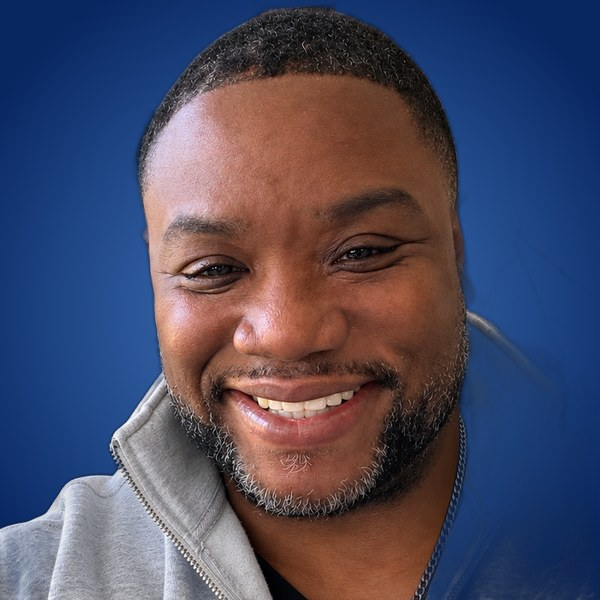
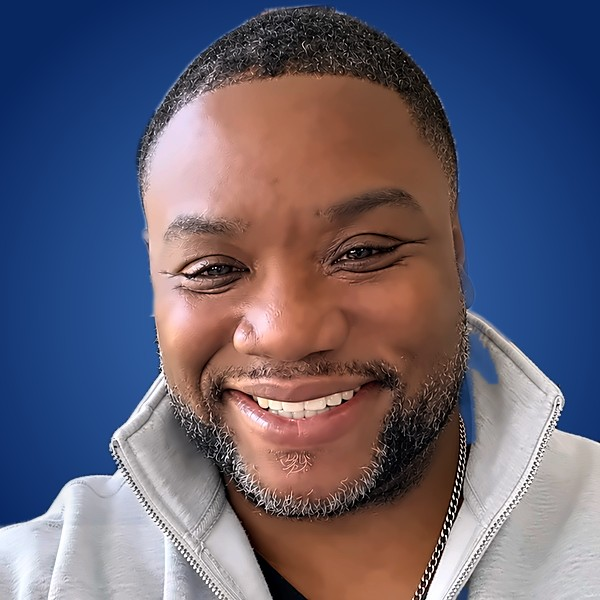
Leaders: clean up and brighten Dr. Bradley, Pastor Drew and Erica headshots
Claude-Session: https://claude.ai/code/session_011HbiFvwRzZYMuKSLe3bf9h

diff --git a/leadership.html b/leadership.html
@@ -1,1 +1,1 @@
-<!doctype html><html lang="en"><head><meta charset="utf-8"><meta name="viewport" content="width=device-width,initial-scale=1"><meta name="theme-color" content="#ed590b"><meta name="description" content="Meet Pastors Andrew (Drew) and Patrice Ambroise and the leadership team serving IGotoHim Church in Brockton, Massachusetts."><link rel="canonical" href="https://www.igotohim.com/leadership.html"><meta name="robots" content="index,follow"><link rel="icon" type="image/png" href="assets/img/favicon.png"><link rel="apple-touch-icon" href="assets/img/apple-touch-icon.png"><meta property="og:type" content="website"><meta property="og:site_name" content="IGotoHim Church"><meta property="og:title" content="Leaders | Pastors Andrew & Patrice Ambroise | IGotoHim Church"><meta property="og:description" content="Meet Pastors Andrew (Drew) and Patrice Ambroise and the leadership team serving IGotoHim Church in Brockton, Massachusetts."><meta property="og:url" content="https://www.igotohim.com/leadership.html"><meta property="og:image" content="https://www.igotohim.com/assets/img/og-image.jpg"><meta property="og:image:width" content="1200"><meta property="og:image:height" content="630"><meta property="og:image:alt" content="IGotoHim Church: A church for people like you"><meta property="og:locale" content="en_US"><meta name="twitter:card" content="summary_large_image"><meta name="twitter:title" content="Leaders | Pastors Andrew & Patrice Ambroise | IGotoHim Church"><meta name="twitter:description" content="Meet Pastors Andrew (Drew) and Patrice Ambroise and the leadership team serving IGotoHim Church in Brockton, Massachusetts."><meta name="twitter:image" content="https://www.igotohim.com/assets/img/og-image.jpg"><meta name="geo.region" content="US-MA"><meta name="geo.placename" content="Brockton"><title>Leaders | Pastors Andrew & Patrice Ambroise | IGotoHim Church</title><link rel="stylesheet" href="assets/style.css?v=20261117d"><script defer src="assets/config.js?v=20261117d"></script><script defer src="assets/app.js?v=20261117d"></script></head><body><div id="site-header"><div class="topbar">ALL ARE WELCOMED · <span>Sundays at 11 AM</span><span class="tb-loc"> · Brockton, Massachusetts</span></div><header class="nav"><div class="container nav-inner"><a class="brand" href="index.html"><img src="assets/logo.png" alt="IGotoHim — Disciple Maker" width="900" height="390"></a><button class="menu" aria-label="Toggle menu" aria-expanded="false">☰</button><nav class="navlinks" aria-label="Main"><a class="navitem" href="index.html">Home</a><div class="dropdown"><a class="navitem active" href="about.html" aria-haspopup="true">About <svg class="chev" viewBox="0 0 24 24" aria-hidden="true"><path d="m6 9 6 6 6-6"/></svg></a><div class="dropmenu"><a href="leadership.html">Leaders</a><a href="sermons.html">Sermons</a></div></div><a class="navitem" href="news.html">News</a><div class="dropdown"><a class="navitem" href="events.html" aria-haspopup="true">Events <svg class="chev" viewBox="0 0 24 24" aria-hidden="true"><path d="m6 9 6 6 6-6"/></svg></a><div class="dropmenu"><a href="events.html#sunday-service">Sunday Service</a><a href="events.html#bible-study">Bible Study</a></div></div><div class="dropdown"><a class="navitem" href="connect.html" aria-haspopup="true">Connect <svg class="chev" viewBox="0 0 24 24" aria-hidden="true"><path d="m6 9 6 6 6-6"/></svg></a><div class="dropmenu"><a href="connect.html#baptism">Baptism</a><a href="ministries.html">Ministries</a></div></div><a class="navitem" href="contact.html">Contact</a><a class="btn" href="https://app.easytithe.com/App/Form/7c1a2889-3194-436c-9861-6d94e68240a6" target="_blank" rel="noopener">Support →</a></nav></div></header></div><main><section class="page-hero"><div class="container"><div class="eyebrow">MEET OUR LEADERS</div><h1>Leadership with Heart</h1><p>Serving God, building disciples, and leading with compassion.</p></div></section><section class="section"><div class="container"><div class="split"><div><div class="eyebrow">SENIOR PASTORS</div><h2>Andrew (Drew) &amp; Patrice Ambroise</h2><p>Pastors Drew and Patrice lead IGotoHim with a shared passion for biblical teaching, prayer, discipleship, and community. Their desire is to make church accessible and welcoming to people from every walk of life.</p><a class="btn" href="contact.html">Connect with Our Church →</a></div><div class="pol-wrap tilt-l pw-pastor-photo pw-wide"><figure class="polaroid"><img loading="lazy" src="assets/img/leaders-event.jpg" alt="Pastor Andrew Ambroise speaking at a church gathering, with Pastor Patrice Ambroise and church leaders" class="pastor-photo wide"><figcaption>Sharing the Word</figcaption></figure></div></div></div></section><section class="section soft"><div class="container"><div class="eyebrow">SERVING TOGETHER</div><h2>Our Church Leadership</h2><div class="leaders"><div class="leader"><img class="leader-photo" src="assets/img/leader-drew.jpg?v=2" alt="Pastor Andrew (Drew) Ambroise, Senior Pastor" width="600" height="600" loading="lazy"><h3>Pastor Drew Ambroise</h3><p>Senior Pastor</p></div><div class="leader"><img class="leader-photo" src="assets/img/leader-patrice.jpg?v=2" alt="Pastor Patrice Ambroise, Senior Pastor" width="600" height="600" loading="lazy"><h3>Pastor Patrice Ambroise</h3><p>Senior Pastor</p></div><div class="leader"><img class="leader-photo" src="assets/img/leader-willie.jpg?v=2" alt="Dr. Willie Bradley, Executive Pastor / Treasurer" width="600" height="600" loading="lazy"><h3>Dr. Willie Bradley</h3><p>Executive Pastor / Treasurer</p></div><div class="leader"><img class="leader-photo" src="assets/img/leader-erica.jpg?v=2" alt="Erica Bradley, Secretary" width="600" height="600" loading="lazy"><h3>Erica Bradley</h3><p>Secretary</p></div><div class="leader"><img class="leader-photo" src="assets/img/leader-janelle.jpg?v=2" alt="Janelle Washington, Kids Ministry" width="600" height="600" loading="lazy"><h3>Janelle Washington</h3><p>Kids Ministry</p></div><div class="leader"><div class="leader-photo leader-initials" aria-hidden="true">TW</div><h3>Thadeuos Washington</h3><p>Video &amp; Social Media</p></div><div class="leader"><img class="leader-photo" src="assets/img/leader-jehna.jpg?v=2" alt="Jehna Ambroise, Recording and Social Media" width="600" height="600" loading="lazy"><h3>Jehna Ambroise</h3><p>Recording &amp; Social Media</p></div></div></div></section></main><div id="site-footer"><footer class="footer"><div class="container"><div class="footer-grid"><div><a class="brand" href="index.html"><img src="assets/logo-white.png" alt="IGotoHim — Disciple Maker" width="900" height="390"></a><p>A church for people like you.<br>All are welcomed. Faith. Family. Community.</p></div><div><h4>Explore</h4><div><a href="about.html">About Us</a></div><div><a href="leadership.html">Leaders</a></div><div><a href="news.html">News</a></div><div><a href="events.html">Events</a></div><div><a href="connect.html">Connect</a></div><div><a href="contact.html">Contact</a></div></div><div><h4>Join Us</h4><p>200 North Cary Street<br>Brockton, MA 02302<br>Sundays 11:00 AM<br>Wednesday Bible Study 7:30 PM</p><p><a href="tel:+17742408044">774-240-8044</a><br><a href="mailto:contactus@igotohim.com">contactus@igotohim.com</a></p></div></div><div class="footer-bottom">© <span id="year">2026</span> IGotoHim Church. All are welcomed.</div></div></footer></div></body></html>
+<!doctype html><html lang="en"><head><meta charset="utf-8"><meta name="viewport" content="width=device-width,initial-scale=1"><meta name="theme-color" content="#ed590b"><meta name="description" content="Meet Pastors Andrew (Drew) and Patrice Ambroise and the leadership team serving IGotoHim Church in Brockton, Massachusetts."><link rel="canonical" href="https://www.igotohim.com/leadership.html"><meta name="robots" content="index,follow"><link rel="icon" type="image/png" href="assets/img/favicon.png"><link rel="apple-touch-icon" href="assets/img/apple-touch-icon.png"><meta property="og:type" content="website"><meta property="og:site_name" content="IGotoHim Church"><meta property="og:title" content="Leaders | Pastors Andrew & Patrice Ambroise | IGotoHim Church"><meta property="og:description" content="Meet Pastors Andrew (Drew) and Patrice Ambroise and the leadership team serving IGotoHim Church in Brockton, Massachusetts."><meta property="og:url" content="https://www.igotohim.com/leadership.html"><meta property="og:image" content="https://www.igotohim.com/assets/img/og-image.jpg"><meta property="og:image:width" content="1200"><meta property="og:image:height" content="630"><meta property="og:image:alt" content="IGotoHim Church: A church for people like you"><meta property="og:locale" content="en_US"><meta name="twitter:card" content="summary_large_image"><meta name="twitter:title" content="Leaders | Pastors Andrew & Patrice Ambroise | IGotoHim Church"><meta name="twitter:description" content="Meet Pastors Andrew (Drew) and Patrice Ambroise and the leadership team serving IGotoHim Church in Brockton, Massachusetts."><meta name="twitter:image" content="https://www.igotohim.com/assets/img/og-image.jpg"><meta name="geo.region" content="US-MA"><meta name="geo.placename" content="Brockton"><title>Leaders | Pastors Andrew & Patrice Ambroise | IGotoHim Church</title><link rel="stylesheet" href="assets/style.css?v=20261117d"><script defer src="assets/config.js?v=20261117d"></script><script defer src="assets/app.js?v=20261117d"></script></head><body><div id="site-header"><div class="topbar">ALL ARE WELCOMED · <span>Sundays at 11 AM</span><span class="tb-loc"> · Brockton, Massachusetts</span></div><header class="nav"><div class="container nav-inner"><a class="brand" href="index.html"><img src="assets/logo.png" alt="IGotoHim — Disciple Maker" width="900" height="390"></a><button class="menu" aria-label="Toggle menu" aria-expanded="false">☰</button><nav class="navlinks" aria-label="Main"><a class="navitem" href="index.html">Home</a><div class="dropdown"><a class="navitem active" href="about.html" aria-haspopup="true">About <svg class="chev" viewBox="0 0 24 24" aria-hidden="true"><path d="m6 9 6 6 6-6"/></svg></a><div class="dropmenu"><a href="leadership.html">Leaders</a><a href="sermons.html">Sermons</a></div></div><a class="navitem" href="news.html">News</a><div class="dropdown"><a class="navitem" href="events.html" aria-haspopup="true">Events <svg class="chev" viewBox="0 0 24 24" aria-hidden="true"><path d="m6 9 6 6 6-6"/></svg></a><div class="dropmenu"><a href="events.html#sunday-service">Sunday Service</a><a href="events.html#bible-study">Bible Study</a></div></div><div class="dropdown"><a class="navitem" href="connect.html" aria-haspopup="true">Connect <svg class="chev" viewBox="0 0 24 24" aria-hidden="true"><path d="m6 9 6 6 6-6"/></svg></a><div class="dropmenu"><a href="connect.html#baptism">Baptism</a><a href="ministries.html">Ministries</a></div></div><a class="navitem" href="contact.html">Contact</a><a class="btn" href="https://app.easytithe.com/App/Form/7c1a2889-3194-436c-9861-6d94e68240a6" target="_blank" rel="noopener">Support →</a></nav></div></header></div><main><section class="page-hero"><div class="container"><div class="eyebrow">MEET OUR LEADERS</div><h1>Leadership with Heart</h1><p>Serving God, building disciples, and leading with compassion.</p></div></section><section class="section"><div class="container"><div class="split"><div><div class="eyebrow">SENIOR PASTORS</div><h2>Andrew (Drew) &amp; Patrice Ambroise</h2><p>Pastors Drew and Patrice lead IGotoHim with a shared passion for biblical teaching, prayer, discipleship, and community. Their desire is to make church accessible and welcoming to people from every walk of life.</p><a class="btn" href="contact.html">Connect with Our Church →</a></div><div class="pol-wrap tilt-l pw-pastor-photo pw-wide"><figure class="polaroid"><img loading="lazy" src="assets/img/leaders-event.jpg" alt="Pastor Andrew Ambroise speaking at a church gathering, with Pastor Patrice Ambroise and church leaders" class="pastor-photo wide"><figcaption>Sharing the Word</figcaption></figure></div></div></div></section><section class="section soft"><div class="container"><div class="eyebrow">SERVING TOGETHER</div><h2>Our Church Leadership</h2><div class="leaders"><div class="leader"><img class="leader-photo" src="assets/img/leader-drew.jpg?v=3" alt="Pastor Andrew (Drew) Ambroise, Senior Pastor" width="600" height="600" loading="lazy"><h3>Pastor Drew Ambroise</h3><p>Senior Pastor</p></div><div class="leader"><img class="leader-photo" src="assets/img/leader-patrice.jpg?v=2" alt="Pastor Patrice Ambroise, Senior Pastor" width="600" height="600" loading="lazy"><h3>Pastor Patrice Ambroise</h3><p>Senior Pastor</p></div><div class="leader"><img class="leader-photo" src="assets/img/leader-willie.jpg?v=3" alt="Dr. Willie Bradley, Executive Pastor / Treasurer" width="600" height="600" loading="lazy"><h3>Dr. Willie Bradley</h3><p>Executive Pastor / Treasurer</p></div><div class="leader"><img class="leader-photo" src="assets/img/leader-erica.jpg?v=3" alt="Erica Bradley, Secretary" width="600" height="600" loading="lazy"><h3>Erica Bradley</h3><p>Secretary</p></div><div class="leader"><img class="leader-photo" src="assets/img/leader-janelle.jpg?v=2" alt="Janelle Washington, Kids Ministry" width="600" height="600" loading="lazy"><h3>Janelle Washington</h3><p>Kids Ministry</p></div><div class="leader"><div class="leader-photo leader-initials" aria-hidden="true">TW</div><h3>Thadeuos Washington</h3><p>Video &amp; Social Media</p></div><div class="leader"><img class="leader-photo" src="assets/img/leader-jehna.jpg?v=2" alt="Jehna Ambroise, Recording and Social Media" width="600" height="600" loading="lazy"><h3>Jehna Ambroise</h3><p>Recording &amp; Social Media</p></div></div></div></section></main><div id="site-footer"><footer class="footer"><div class="container"><div class="footer-grid"><div><a class="brand" href="index.html"><img src="assets/logo-white.png" alt="IGotoHim — Disciple Maker" width="900" height="390"></a><p>A church for people like you.<br>All are welcomed. Faith. Family. Community.</p></div><div><h4>Explore</h4><div><a href="about.html">About Us</a></div><div><a href="leadership.html">Leaders</a></div><div><a href="news.html">News</a></div><div><a href="events.html">Events</a></div><div><a href="connect.html">Connect</a></div><div><a href="contact.html">Contact</a></div></div><div><h4>Join Us</h4><p>200 North Cary Street<br>Brockton, MA 02302<br>Sundays 11:00 AM<br>Wednesday Bible Study 7:30 PM</p><p><a href="tel:+17742408044">774-240-8044</a><br><a href="mailto:contactus@igotohim.com">contactus@igotohim.com</a></p></div></div><div class="footer-bottom">© <span id="year">2026</span> IGotoHim Church. All are welcomed.</div></div></footer></div></body></html>
